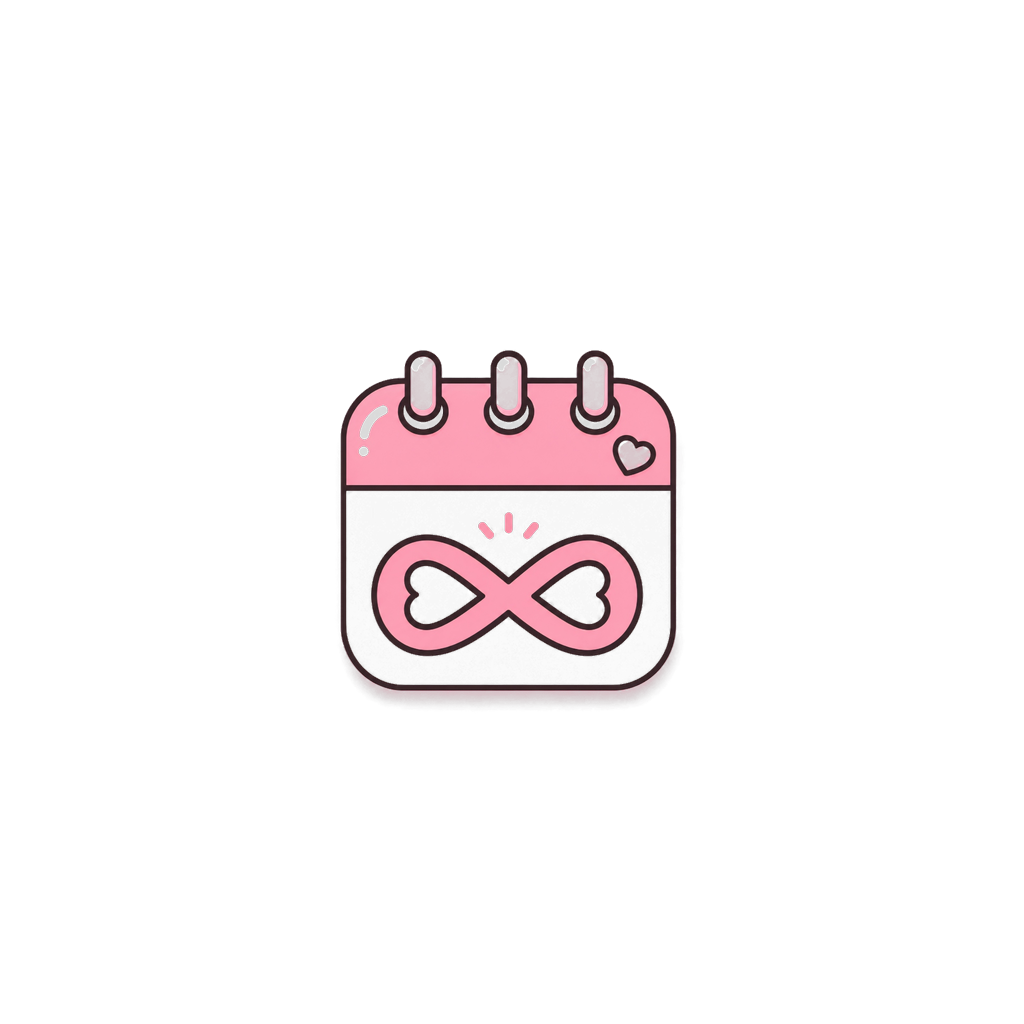
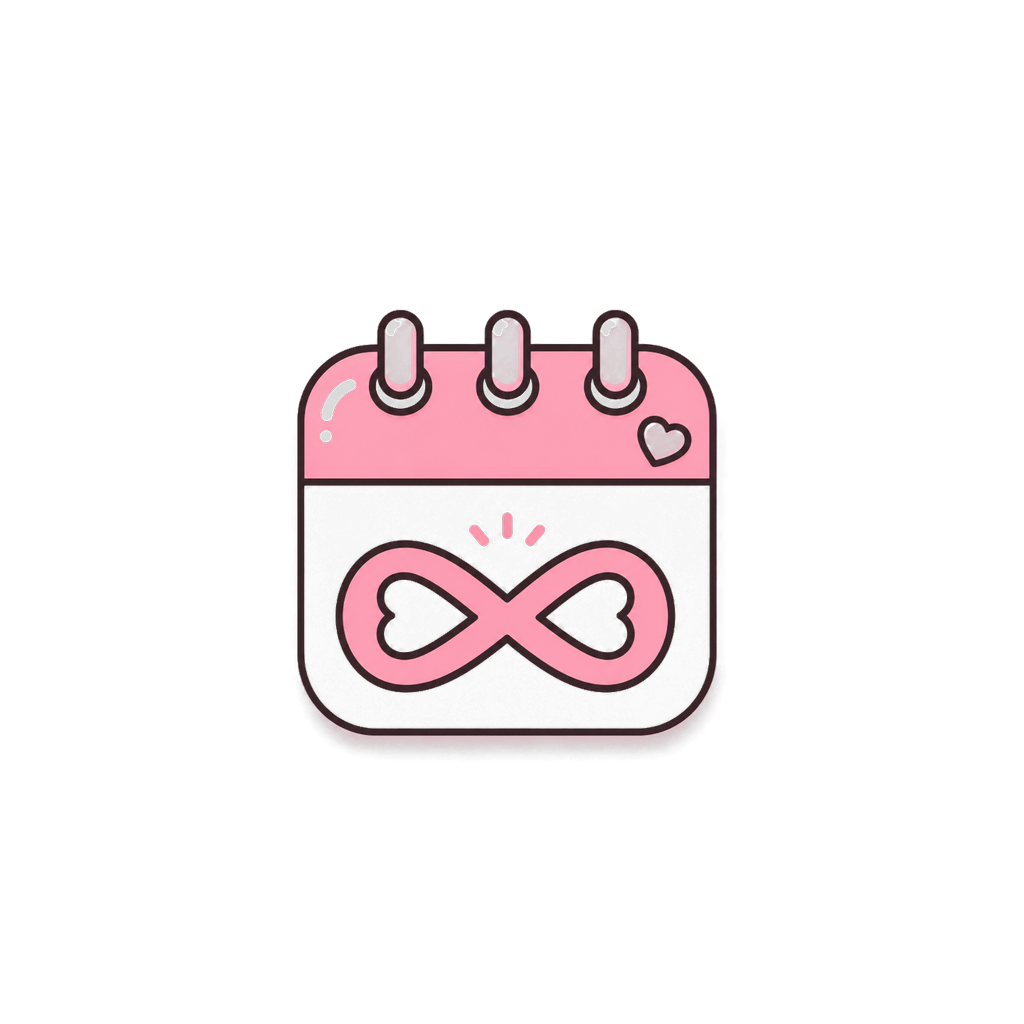
feat: initialize mobile app workspace with Expo configuration and assets

Changed region(s): [[0.2812, 0.2812, 0.7188, 0.75]]

diff --git a/apps/mobile/src/features/HomeScreen.tsx b/apps/mobile/src/features/HomeScreen.tsx
@@ -114,14 +114,7 @@ export const HomeScreen: React.FC = () => {
 
       if (partnerToken) {
         await sendPushNotification(partnerToken, title, body);
-        if (partnerToken.startsWith('mock-')) {
-          Alert.alert(
-            'Thành công (Giả lập)',
-            'Đã gửi tín hiệu thành công!\n\n(Do đối phương đang dùng Expo Go giả lập nên sự kiện đã được ghi nhận trên hệ thống nhưng không rung chuông vật lý).'
-          );
-        } else {
-          Alert.alert('Thành công', type === 'love' ? 'Đã gửi yêu thương thành công đến đối phương! 💕' : 'Đã chọc ghẹo đối phương thành công! 🤪');
-        }
+        Alert.alert('Thành công', type === 'love' ? 'Đã gửi yêu thương thành công đến đối phương! 💕' : 'Đã chọc ghẹo đối phương thành công! 🤪');
       } else {
         Alert.alert(
           'Không tìm thấy Token',
@@ -841,7 +834,7 @@ export const HomeScreen: React.FC = () => {
                         flexShrink: 0,
                       }}
                     >
-                      <Text numberOfLines={1} ellipsizeMode="clip" style={{ fontSize: 11, fontWeight: '900', color: AppTheme.textPrimary }}>❤️ Nhớ nửa kia</Text>
+                      <Text style={{ fontSize: 11, fontWeight: '900', color: AppTheme.textPrimary }}>❤️ Nhớ nửa kia</Text>
                     </TouchableOpacity>
                     <TouchableOpacity
                       onPress={() => handleSendLoveOrPoke('poke')}
@@ -862,7 +855,7 @@ export const HomeScreen: React.FC = () => {
                         flexShrink: 0,
                       }}
                     >
-                      <Text numberOfLines={1} ellipsizeMode="clip" style={{ fontSize: 11, fontWeight: '900', color: AppTheme.textPrimary }}>🤪 Chọc ghẹo</Text>
+                      <Text style={{ fontSize: 11, fontWeight: '900', color: AppTheme.textPrimary }}>🤪 Chọc ghẹo</Text>
                     </TouchableOpacity>
                   </View>
                 </ImageBackground>
@@ -898,7 +891,7 @@ export const HomeScreen: React.FC = () => {
                         flexShrink: 0,
                       }}
                     >
-                      <Text numberOfLines={1} ellipsizeMode="clip" style={{ fontSize: 11, fontWeight: '900', color: AppTheme.textPrimary }}>❤️ Nhớ nửa kia</Text>
+                      <Text style={{ fontSize: 11, fontWeight: '900', color: AppTheme.textPrimary }}>❤️ Nhớ nửa kia</Text>
                     </TouchableOpacity>
                     <TouchableOpacity
                       onPress={() => handleSendLoveOrPoke('poke')}
@@ -919,7 +912,7 @@ export const HomeScreen: React.FC = () => {
                         flexShrink: 0,
                       }}
                     >
-                      <Text numberOfLines={1} ellipsizeMode="clip" style={{ fontSize: 11, fontWeight: '900', color: AppTheme.textPrimary }}>🤪 Chọc ghẹo</Text>
+                      <Text style={{ fontSize: 11, fontWeight: '900', color: AppTheme.textPrimary }}>🤪 Chọc ghẹo</Text>
                     </TouchableOpacity>
                   </View>
                 </>

diff --git a/apps/mobile/src/features/RemindersScreen.tsx b/apps/mobile/src/features/RemindersScreen.tsx
@@ -351,14 +351,7 @@ export const RemindersScreen: React.FC = () => {
 
       if (partnerToken) {
         await sendPushNotification(partnerToken, title, body);
-        if (partnerToken.startsWith('mock-')) {
-          Alert.alert(
-            'Thành công (Giả lập)',
-            'Đã gửi nhắc nhở thành công!\n\n(Do đối phương đang dùng Expo Go giả lập nên sự kiện đã được ghi nhận trên hệ thống nhưng không rung chuông vật lý).'
-          );
-        } else {
-          Alert.alert('Thành công', 'Đã gửi nhắc nhở thành công đến đối phương! ⏰');
-        }
+        Alert.alert('Thành công', 'Đã gửi nhắc nhở thành công đến đối phương! ⏰');
       } else {
         Alert.alert(
           'Không tìm thấy Token',